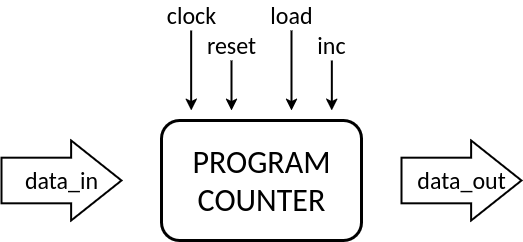
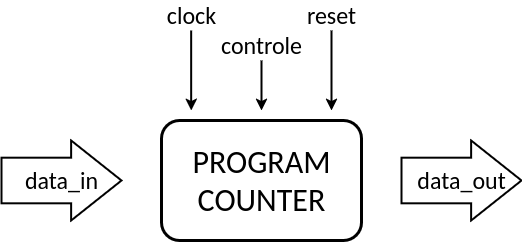
redoing PC

diff --git a/static/hdlsrc/600/if.c b/static/hdlsrc/600/if.c
@@ -1,0 +1,5 @@
+if (a_certain_variable == 16) {
+    do_something();
+} else {
+    do_something_else();
+}

diff --git a/content/500_CPU/520_PC.md b/content/500_CPU/520_PC.md
@@ -13,9 +13,9 @@ De program counter is als vingertje van een kind dat leert lezen. Het duidt aan 
 {{% figure src="/images/500/program_counter.png" title="" %}}
 {{% /column %}}
 {{% column %}}
-De program counter houdt de *regelnummer* naar de juiste instructie bij. Deze staat opgeslagen in een 32-bit breed register. Na het uitvoeren van een instructie dient de PC verhoogd te worden met **0x4**. Dit wordt hiernaast aangegeven met de **inc**(crement) ingang.
+De program counter houdt de *regelnummer* naar de juiste instructie bij. Deze staat opgeslagen in een 32-bit breed register. Na het uitvoeren van een instructie dient de PC verhoogd te worden met **0x4**.
 
-In een programma wordt er ook vaak een **sprong** gedaan. Dit wilt zeggen dat de program counter een stuk verderop (of terug) moet gaan voor de volgende instructie aan te duiden. In de hardware kan dit geïmplementeerd worden door een **load** te doen.
+In een programma wordt er ook vaak een **sprong** gedaan. Dit wilt zeggen dat de program counter een stuk verderop (of terug) moet gaan voor de volgende instructie aan te duiden. In de hardware kan dit geïmplementeerd worden door de **controle** signalen correct aan te sturen.
 {{% /column %}}
 {{% /multiHcolumn %}}
 
@@ -38,27 +38,66 @@ De processor werkt echter met een 32-bit bus. Dit wilt zeggen dat er **altijd** 
 
 Voordat de processor geïmplementeerd kan worden, moet dus eerst de program counter gemaakt worden.
 
-De program counter heeft 5 input signalen. **data_in, clock, reset, load en inc(rement)**. Als output heeft het **data_out**. Data_in en Data_out zijn beide 32-bit vectoren. Als de reset hoog wordt, moet de program counter **synchroon resetten** naar 0x0. **inc** zorgt dat de program counter met 4 verhoogd wordt en **load** zorgt ervoor dat de **data** van data_in **synchroon** wordt **ingeladen**. **Load heeft voorrang op increment**.
-
-De program counter moet dus aan onderstaande specificaties voldoen:
-
-* Als **reset** 1 is, wordt er **synchroon gereset** (*synchrone, actief hoge reset*)
-* Als reset, load en inc 0 zijn blijft de uitgang zijn waarde **behouden**
-* Als **increment** 1 is, dan wordt de program counter met **4 verhoogd**
-* Als **load** 1 is, dan wordt de inputdata de **gesampled**
-* De **load** heeft voorang op **inc**
-
-{{% notice note %}}
-Je kan de **ripple carry adder van opdracht 2** gebruiken.
+<!-- Different types for notices are: info (yellow), tip (green), warning (red), note (blue)-->
+{{% notice tip %}}
+Voordat je (ongetwijfeld met vol enthousiasme) een Vivado project maakt en code begint te schijven, **blijft** het belangrijk om eerst een design te maken!!
 {{% /notice %}}
 
 {{% multiHcolumn %}}
 {{% column %}}
-{{% figure src="/images/500/program_counter.png" title="Blokschema van de program counter"  %}}
+Hiernaast wordt de volledige set van instructie voor de RISC-V weergeven. Om precies te zijn, dit is de volledige set van instructie voor de basis RISC-V 32i (RV32i) instructies.
+
+In deze lijst zijn er 8 instructies die een effect hebben op de program counter. De eerste 6 gemarkeerde instructies zijn de **conditional branch** instructies: **beq**, **bne**, **blt**, **bge**, **bltu** en **bgeu**.
+Bij deze instructies zal er (indien aan de vooropgestelde voorwaarde voldaan is) een **relatieve jump** gebeuren. Het *adres* waarnaar er gesprongen wordt is een *offset* ten opzichte van de huidige waarde van de program counter.
+Bij de laatste gemarkeerde instructies kan een **relatieve jump** en een **absolute jump** gedaan worden.
+
+Er kan dus geconcludeerd worden dat, bij een jump, de waarde van de program counter **altijd het resultaat is van een som**:
+* van de PC zelf en een offset
+* van een register en een offset
+
+Indien er geen jump is, is de waarde van de program counter de som:
+* van de PC zelf en de constante 0x4
+{{% /column %}}
+{{% column %}}
+{{% figure src="/images/500/instructions_PC.png" title="" %}}
+{{% /column %}}
+{{% /multiHcolumn %}}
+
+Met dit inzicht, een blaadje papier met een potlood (en een gom), enkele tassen koffie of thee (of water), kan een design gemaakt worden. Bijvoorbeeld:
+
+{{% multiHcolumn %}}
+{{% column %}}
+{{% figure src="/images/500/PC_design_2.png" title="" %}}
+{{% /column %}}
+{{% column %}}
+{{% figure src="/images/500/PC_design.png" title="" %}}
+{{% /column %}}
+{{% column %}}
+{{% figure src="/images/500/PC_design_3.png" title="" %}}
+{{% /column %}}
+{{% /multiHcolumn %}}
+
+
+
+{{% multiHcolumn %}}
+{{% column %}}
+Ongeacht de keuze van het design, ziet de entity voor de program counter er (quasi) hetzelfde uit.
+
+* clock en synchrone, actief hoge reset
+* twee 32-bit data ingangen
+* één 32-bit data uitgang
+* 2 controle signalen:
+  * **abs_rel_b** is '1' bij een absolute sprong en '0' bij een relatieve
+  * **immediate** is '1' voor een relatieve sprong met offset en '0' bij een (standaard) sprong met 4
 {{% /column %}}
 {{% column %}}
 {{< include_file "/static/hdlsrc/500/program_counter.vhd" "vhdl" >}}
 {{% /column %}}
 {{% /multiHcolumn %}}
+
+{{% notice note %}}
+Je kan de **ripple carry adder van opdracht 2** gebruiken.
+Merk ook op dat de **immediate** ingang geen rol speel bij een **absolute jump**
+{{% /notice %}}
 
 Een testbench voor de program counter kan je hier vinden: {{< include_file "/static/hdlsrc/500/program_counter_tb.vhd" "vhdl" >}}

diff --git a/content/600_binst/610_jumps.md b/content/600_binst/610_jumps.md
@@ -1,0 +1,36 @@
+---
+title: 'Jumps'
+pre: "<i class='fas fa-book'></i> "
+chapter: false
+weight: 610
+draft: false
+---
+
+Tot hiertoe *liep* het programma gelijk een recept in de keuken. Iedere stap werd één-voor-één uitgevoerd. Iets geavanceerdere software (met de nadruk op *iets*) breken met dit principe. Af en toe wordt er een sprong uitgevoerd. Dit is zelfs al het geval bij een simpele if-constructie.
+
+{{% multiHcolumn %}}
+{{% column %}}
+{{< include_file "/static/hdlsrc/600/if.c" "C" >}}
+{{% /column %}}
+{{% column %}}
+{{< include_file "/static/hdlsrc/600/if.ass" "S" >}}
+{{% /column %}}
+{{% /multiHcolumn %}}
+
+{{% multiHcolumn %}}
+{{% column %}}
+In dit voorbeeld wordt er een **conditionele jump** gedaan. Dit is *een sprong in het recept*, mits er aan een bepaalde voorwaarde al-dan-niet voldaan is. De voorwaarde in het voorbeeld is: **is deze waarde gelijk aan 16**.
+
+Indien er aan de voorwaarde voldaan is, wordt er <span style="border: 2px solid #d89c06; background-color: #ffe6cc">een bepaalde instructie (of reeks van instructies)</span> uitgevoerd. Indien er *niet* aan de voorwaarde voldaan is, wordt een <span style="border: 2px solid #d7b759; background-color: #fff2cc">andere (set van) instructie(s)</span> uitgevoerd. De pijlen in de tekening de volgorde van de instructies aan en illustreren hoe er een **sprong** gemaakt wordt.
+
+<!-- Different types for notices are: info (yellow), tip (green), warning (red), note (blue)-->
+{{% notice warning %}}
+In de tekening ontbreekt 1 sprong. Welke?
+{{% /notice %}}
+{{% /column %}}
+{{% column %}}
+{{% figure src="/images/600/conditional_jump.png" title="" %}}
+{{% /column %}}
+{{% /multiHcolumn %}}
+
+De processor die gemaakt wordt, moet dit soort **jumps** ook kunnen faciliteren. Dit wordt gedaan door de program counter niet, na elke instructie, te verhogen met 0x4; maar door (wanneer nodig) een volledige load te doen van de 32 bits van de PC.

diff --git a/content/600_binst/_index.md b/content/600_binst/_index.md
@@ -1,0 +1,16 @@
+---
+title: '6. B-instructies'
+chapter: true
+weight: 600
+draft: false
+---
+
+# B-instructies
+
+![Code](/images/pexels/pexels-jill-wellington-1638660-40815.jpg)
+
+{{< image_courtesy 
+  name="Jill Wellington"
+  url="https://www.pexels.com/photo/silhouette-photography-of-jump-shot-of-two-persons-40815/"
+  source="pexels"
+>}}
